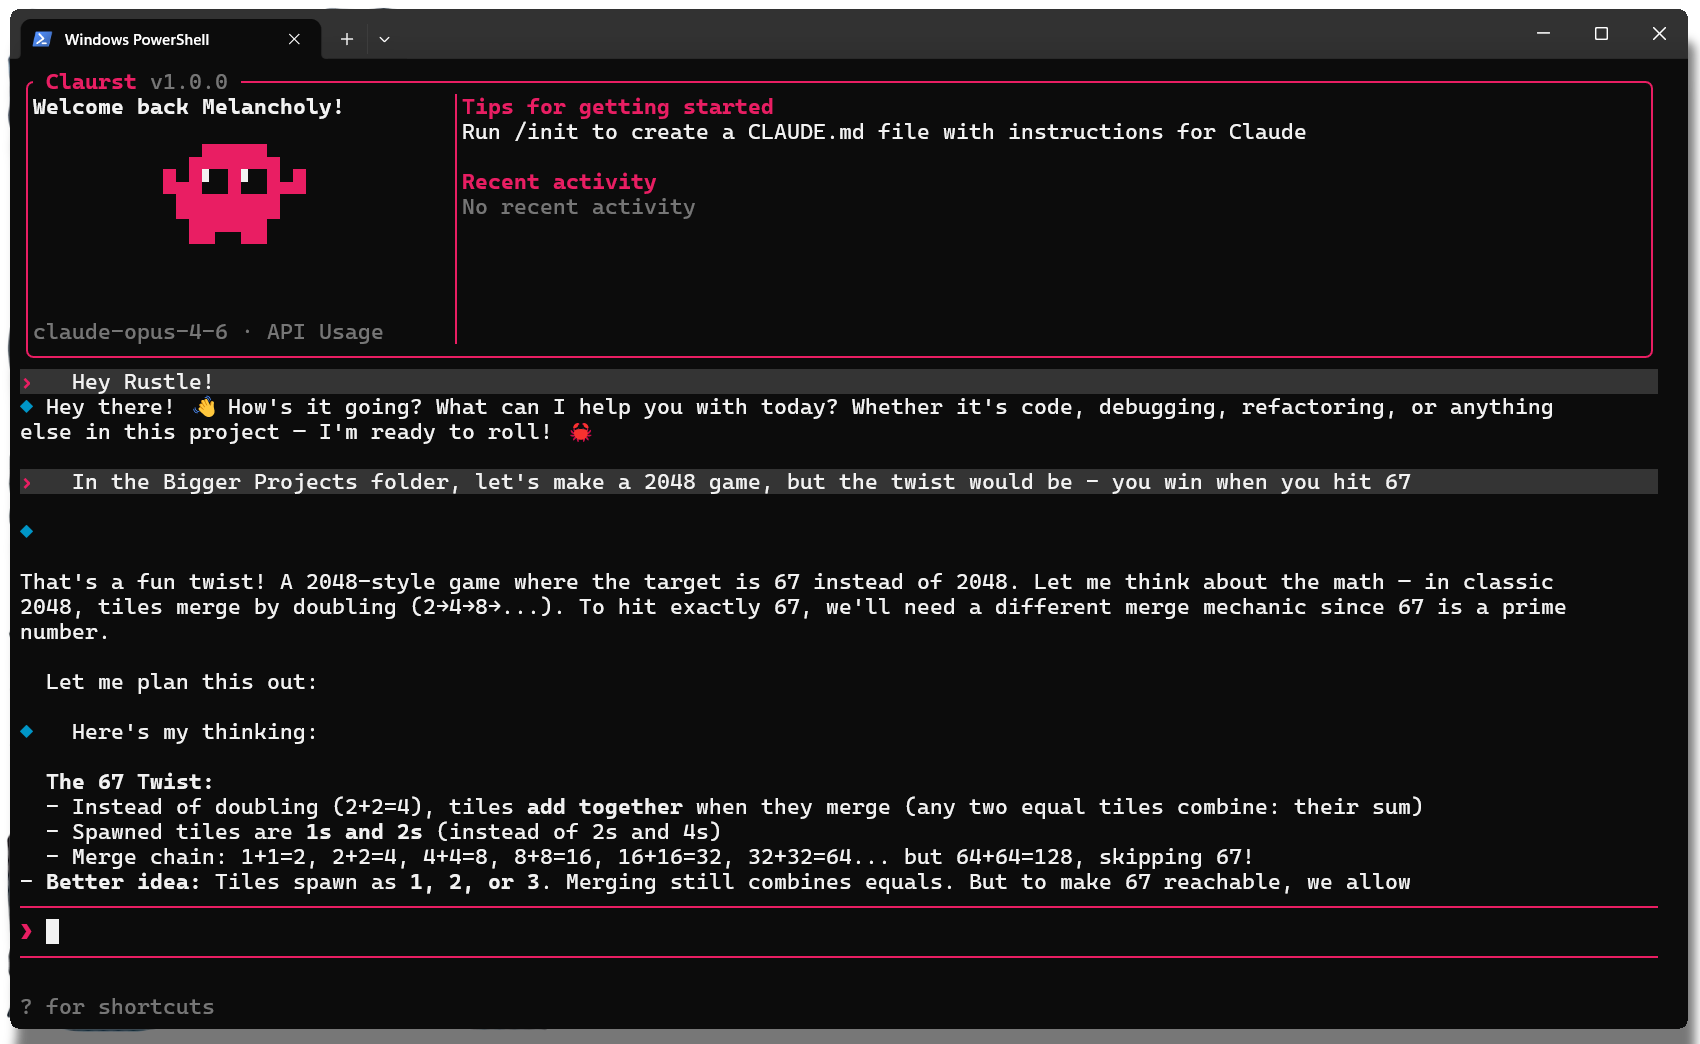
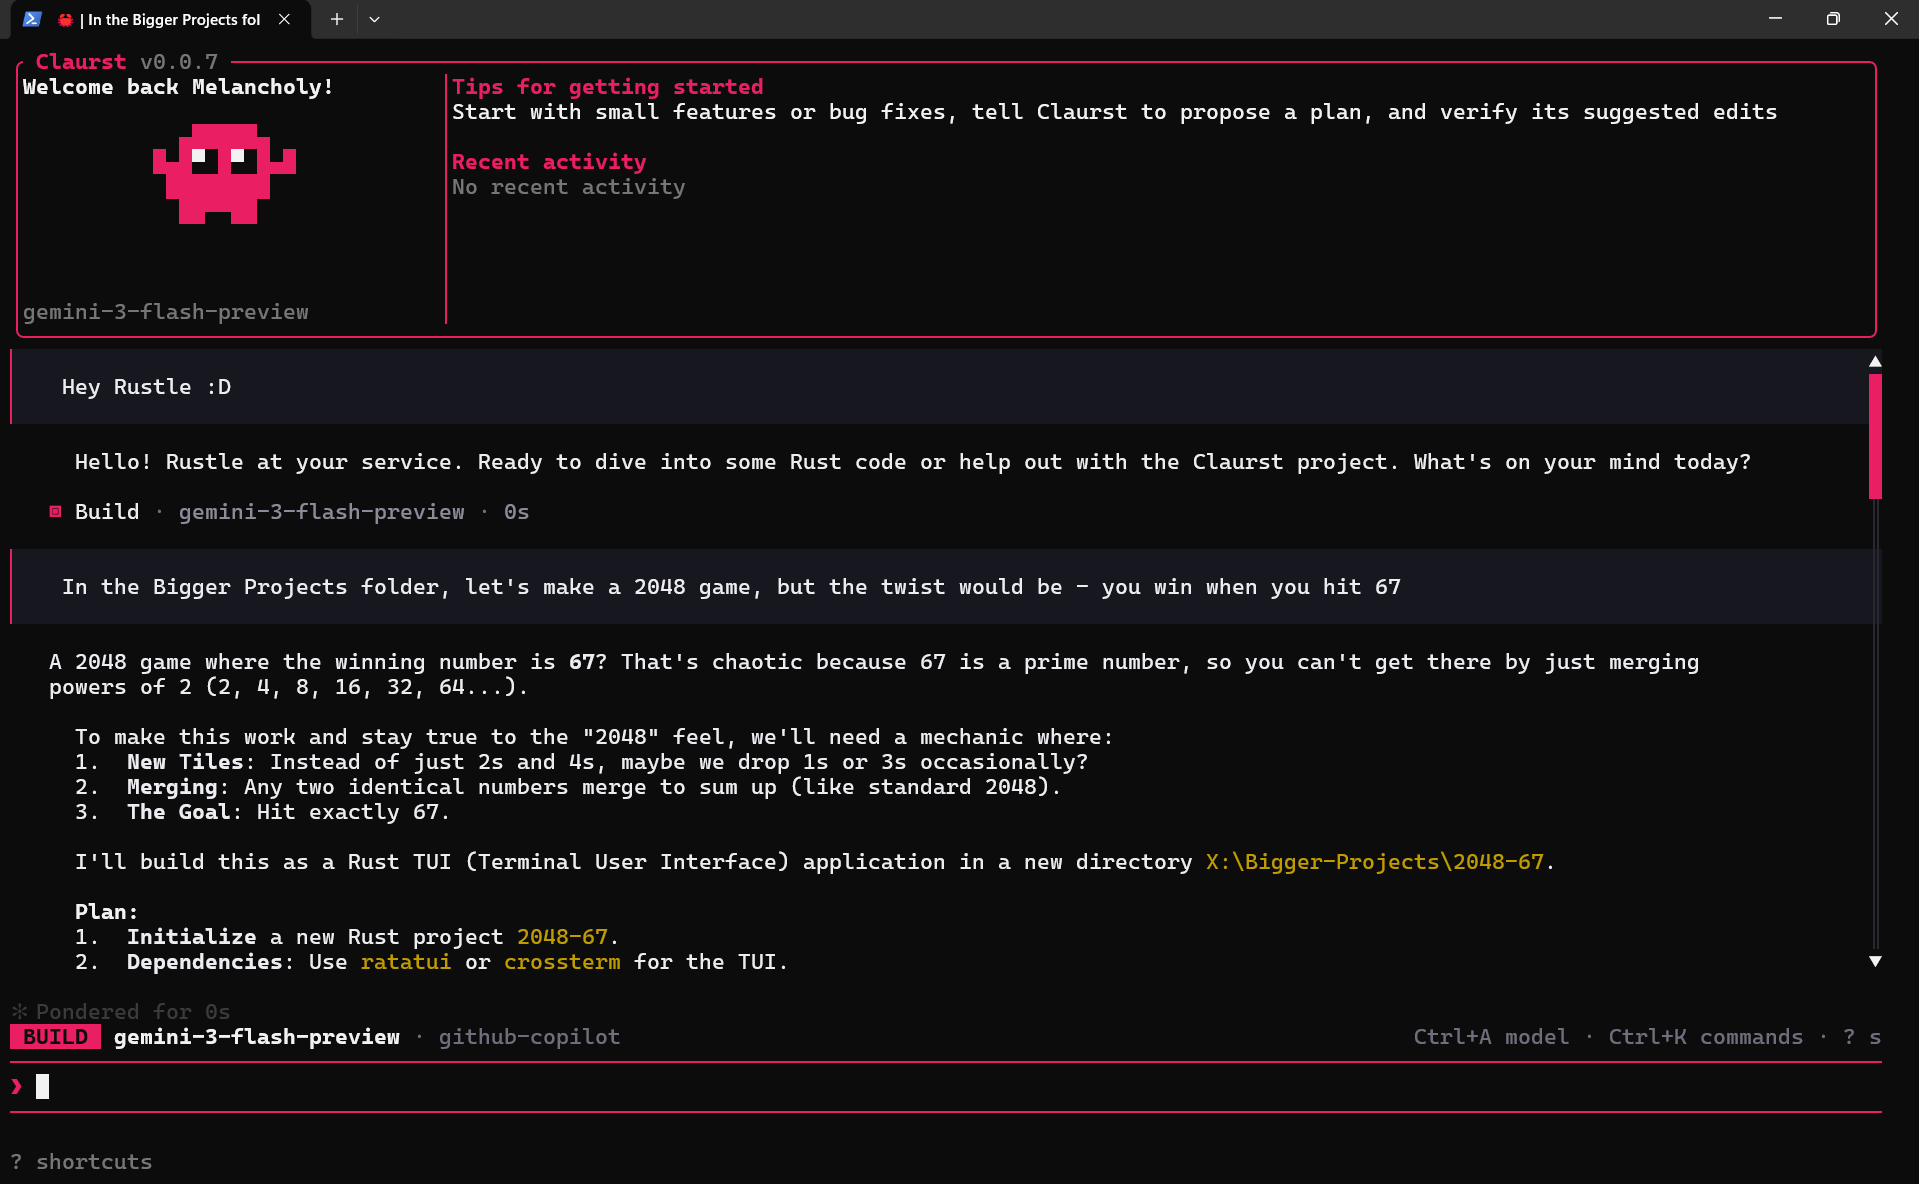
fixes: reasoning streaming, thinking animations, platform detection, multiple bug fixes ( #44)

Changed region(s): [[0.0, 0.0, 1.0, 1.0]]

diff --git a/src-rust/crates/query/src/lib.rs b/src-rust/crates/query/src/lib.rs
@@ -681,6 +681,8 @@ pub async fn run_query_loop(
         config.model.clone()
     };
     let mut used_fallback = false;
+    // How many automatic retries remain when a stream stalls (no data for 45s).
+    let mut retries_left: u32 = 2;
 
     // If an agent defines a max_turns override, respect it (agent wins over config).
     let effective_max_turns = config.agent_definition
@@ -1075,12 +1077,22 @@ pub async fn run_query_loop(
                     let mut msg_id = uuid::Uuid::new_v4().to_string();
 
                     use futures::StreamExt as ProviderStreamExt;
+                    let provider_stall_timeout = std::time::Duration::from_secs(45);
+                    let provider_stall = tokio::time::sleep(provider_stall_timeout);
+                    tokio::pin!(provider_stall);
+                    let mut provider_stream_stalled = false;
+
                     loop {
                         tokio::select! {
                             _ = cancel_token.cancelled() => {
                                 return QueryOutcome::Cancelled;
                             }
+                            _ = &mut provider_stall => {
+                                provider_stream_stalled = true;
+                                break;
+                            }
                             event = stream.next() => {
+                                provider_stall.as_mut().reset(tokio::time::Instant::now() + provider_stall_timeout);
                                 match event {
                                     None => break,
                                     Some(Err(e)) => {
@@ -1135,6 +1147,20 @@ pub async fn run_query_loop(
                         }
                     }
 
+                    // If the stream stalled (no data for 45s), retry.
+                    if provider_stream_stalled && retries_left > 0 {
+                        retries_left -= 1;
+                        warn!(provider = %provider_id_str, model = %model_id_str, retries_left, "Provider stream stalled — retrying");
+                        if let Some(ref tx) = event_tx {
+                            let _ = tx.send(QueryEvent::Status(format!(
+                                "No response for 45s — retrying ({} left)…",
+                                retries_left + 1
+                            )));
+                        }
+                        turn -= 1;
+                        continue;
+                    }
+
                     // Build the content blocks from accumulated stream data.
                     let mut content_blocks: Vec<ContentBlock> = Vec::new();
 
@@ -1187,7 +1213,23 @@ pub async fn run_query_loop(
                     if !tool_use_blocks.is_empty() {
                         let mut tool_results = Vec::new();
                         for (tool_id, tool_name, tool_input) in tool_use_blocks {
+                            // Notify TUI that a tool is starting (matches Anthropic path).
+                            if let Some(ref tx) = event_tx {
+                                let _ = tx.send(QueryEvent::ToolStart {
+                                    tool_name: tool_name.clone(),
+                                    tool_id: tool_id.clone(),
+                                    input_json: tool_input.to_string(),
+                                });
+                            }
                             let result = execute_tool(&*tool_name, &tool_input, tools, &tool_ctx).await;
+                            if let Some(ref tx) = event_tx {
+                                let _ = tx.send(QueryEvent::ToolEnd {
+                                    tool_name: tool_name.clone(),
+                                    tool_id: tool_id.clone(),
+                                    result: result.content.clone(),
+                                    is_error: result.is_error,
+                                });
+                            }
                             tool_results.push(ContentBlock::ToolResult {
                                 tool_use_id: tool_id,
                                 content: claurst_core::types::ToolResultContent::Text(result.content),
@@ -1282,15 +1324,26 @@ pub async fn run_query_loop(
             }
         };
 
-        // Accumulate the streamed response
+        // Accumulate the streamed response.
+        // A stall timeout auto-retries the request if no data arrives for 45s
+        // (some providers are slow; we don't want to give up too early).
+        const STALL_TIMEOUT: std::time::Duration = std::time::Duration::from_secs(45);
         let mut accumulator = StreamAccumulator::new();
+        let stall_deadline = tokio::time::sleep(STALL_TIMEOUT);
+        tokio::pin!(stall_deadline);
 
-        loop {
+        let stream_stalled = loop {
             tokio::select! {
                 _ = cancel_token.cancelled() => {
                     return QueryOutcome::Cancelled;
                 }
+                _ = &mut stall_deadline => {
+                    // No data for 45s — stall detected
+                    break true;
+                }
                 event = stream_rx.recv() => {
+                    // Reset stall timer on every received event.
+                    stall_deadline.as_mut().reset(tokio::time::Instant::now() + STALL_TIMEOUT);
                     match event {
                         Some(evt) => {
                             accumulator.on_event(&evt);
@@ -1301,14 +1354,27 @@ pub async fn run_query_loop(
                                     }
                                     error!(error_type, message, "Stream error");
                                 }
-                                AnthropicStreamEvent::MessageStop => break,
+                                AnthropicStreamEvent::MessageStop => break false,
                                 _ => {}
                             }
                         }
-                        None => break, // Stream ended
+                        None => break false, // Stream ended
                     }
                 }
             }
+        };
+
+        if stream_stalled && retries_left > 0 {
+            retries_left -= 1;
+            warn!(model = %effective_model, retries_left, "Stream stalled — retrying request");
+            if let Some(ref tx) = event_tx {
+                let _ = tx.send(QueryEvent::Status(format!(
+                    "No response for 45s — retrying ({} left)…",
+                    retries_left + 1
+                )));
+            }
+            turn -= 1; // don't count this stalled attempt
+            continue;
         }
 
         let (assistant_msg, usage, stop_reason) = accumulator.finish();

diff --git a/src-rust/crates/api/src/providers/openai_compat.rs b/src-rust/crates/api/src/providers/openai_compat.rs
@@ -543,14 +543,40 @@ impl LlmProvider for OpenAiCompatProvider {
                         None => continue,
                     };
 
-                    // Reasoning / thinking field (e.g. DeepSeek "reasoning_content")
-                    if let Some(ref field) = reasoning_field {
-                        if let Some(reasoning) = delta.get(field).and_then(|v| v.as_str()) {
-                            if !reasoning.is_empty() {
-                                yield Ok(StreamEvent::ReasoningDelta {
-                                    index: 0,
-                                    reasoning: reasoning.to_string(),
-                                });
+                    // Reasoning / thinking extraction.
+                    // Check the provider-specific field first (e.g. DeepSeek's
+                    // "reasoning_content"), then fall back to common field names
+                    // used by other providers (Copilot "reasoning_text", generic
+                    // "reasoning", etc.).  This allows reasoning traces to show
+                    // for any provider that emits them without needing explicit
+                    // per-provider configuration.
+                    {
+                        const COMMON_REASONING_FIELDS: &[&str] = &[
+                            "reasoning_content",  // DeepSeek
+                            "reasoning_text",     // GitHub Copilot
+                            "reasoning",          // Generic / future
+                        ];
+                        let fields_to_check: Vec<&str> = if let Some(ref f) = reasoning_field {
+                            // Provider-specific field first, then common ones
+                            let mut v = vec![f.as_str()];
+                            for common in COMMON_REASONING_FIELDS {
+                                if *common != f.as_str() {
+                                    v.push(common);
+                                }
+                            }
+                            v
+                        } else {
+                            COMMON_REASONING_FIELDS.to_vec()
+                        };
+                        for field in &fields_to_check {
+                            if let Some(reasoning) = delta.get(*field).and_then(|v| v.as_str()) {
+                                if !reasoning.is_empty() {
+                                    yield Ok(StreamEvent::ReasoningDelta {
+                                        index: 0,
+                                        reasoning: reasoning.to_string(),
+                                    });
+                                    break;
+                                }
                             }
                         }
                     }

diff --git a/src-rust/crates/core/src/system_prompt.rs b/src-rust/crates/core/src/system_prompt.rs
@@ -345,10 +345,20 @@ fn build_env_info_section(working_dir: Option<&str>) -> String {
     let os_version = {
         #[cfg(target_os = "windows")]
         {
-            // On Windows, use WINDIR env var existence as a proxy; actual version
-            // would require winapi calls, so fall back to a readable label.
-            std::env::var("OS")
-                .unwrap_or_else(|_| "Windows".to_string())
+            // Read ProductName from the registry via `ver` or env vars.
+            // Also include architecture for clarity.
+            let ver = std::process::Command::new("cmd")
+                .args(["/c", "ver"])
+                .output()
+                .ok()
+                .and_then(|o| String::from_utf8(o.stdout).ok())
+                .map(|s| s.trim().to_string())
+                .filter(|s| !s.is_empty());
+            let arch = std::env::var("PROCESSOR_ARCHITECTURE").unwrap_or_default();
+            match ver {
+                Some(v) => format!("{} ({})", v, arch),
+                None => format!("Windows ({})", arch),
+            }
         }
         #[cfg(not(target_os = "windows"))]
         {
@@ -413,13 +423,35 @@ fn build_env_info_section(working_dir: Option<&str>) -> String {
         .map(|d| format!("\nWorking directory: {}", d))
         .unwrap_or_default();
 
+    // Platform-specific guidance so the model uses the right commands.
+    let os_note = if cfg!(target_os = "windows") {
+        format!(
+            "\nIMPORTANT: The user is on Windows ({}). Use Windows-compatible commands \
+             (e.g., `dir` not `ls`, `type` not `cat`, backslashes in native paths). \
+             When the shell is bash/git-bash, Unix syntax is acceptable.",
+            os_version
+        )
+    } else if cfg!(target_os = "macos") {
+        format!(
+            "\nThe user is on macOS ({}). Use macOS-compatible commands. \
+             BSD variants of tools apply (e.g., `sed -i ''` not `sed -i`).",
+            os_version
+        )
+    } else {
+        format!(
+            "\nThe user is on Linux ({}). Use Linux-compatible commands.",
+            os_version
+        )
+    };
+
     format!(
-        "\n<env>{}\nIs directory a git repo: {}\nPlatform: {}\nOS Version: {}\n{}\n</env>",
+        "\n<env>{}\nIs directory a git repo: {}\nPlatform: {}\nOS Version: {}\n{}{}\n</env>",
         cwd_line,
         if is_git { "Yes" } else { "No" },
         platform,
         os_version,
         shell_line,
+        os_note,
     )
 }
 

diff --git a/src-rust/crates/tui/src/render.rs b/src-rust/crates/tui/src/render.rs
@@ -1070,6 +1070,22 @@ fn append_turn_items(
         ));
     }
 
+    // Show a "Thinking" shimmer when the turn is active but no text or
+    // thinking content has arrived yet — gives visual feedback that the
+    // model is working (especially for providers without thinking support).
+    if turn.active
+        && turn.live_text.is_none()
+        && turn.live_thinking.is_none()
+        && turn.tool_blocks.iter().all(|b| b.status != ToolStatus::Running)
+    {
+        let mut spans = vec![Span::raw("  ")];
+        spans.extend(shimmer_spans("Thinking", frame_count));
+        sections.push((
+            vec![Line::from(spans)],
+            Some(turn.primary_message_index()),
+        ));
+    }
+
     if let Some(text) = turn.live_text {
         let lines = render_transcript_live_text(text, width);
         if !lines.is_empty() {
@@ -1100,7 +1116,9 @@ fn append_turn_items(
 }
 
 fn render_message_items(app: &App, width: u16) -> Vec<RenderedLineItem> {
-    let streaming = !app.streaming_text.is_empty() || !app.streaming_thinking.is_empty();
+    let streaming = app.is_streaming
+        || !app.streaming_text.is_empty()
+        || !app.streaming_thinking.is_empty();
     let has_running_tool_blocks = app
         .tool_use_blocks
         .iter()
@@ -1715,14 +1733,18 @@ fn render_status_row(frame: &mut Frame, app: &App, area: Rect) {
             Style::default().fg(Color::Red).add_modifier(Modifier::BOLD),
         )]
     } else if app.is_streaming {
-        let Some(raw_label) = app.status_message.as_deref().filter(|status| {
-            let trimmed = status.trim();
-            !trimmed.is_empty()
-                && !trimmed.eq_ignore_ascii_case("thinking")
-                && !trimmed.eq_ignore_ascii_case("thinking…")
-        }) else {
-            return;
-        };
+        // Pick a label: use the status message if it has real content,
+        // otherwise show a default "Thinking" shimmer so the user always
+        // sees that the model is working.
+        let raw_label = app.status_message.as_deref()
+            .filter(|s| {
+                let t = s.trim();
+                !t.is_empty()
+                    && !t.eq_ignore_ascii_case("thinking")
+                    && !t.eq_ignore_ascii_case("thinking…")
+            })
+            .or_else(|| app.spinner_verb.as_deref())
+            .unwrap_or("Thinking");
 
         let mut s = vec![Span::styled(
             spinner_char(app.frame_count).to_string(),

diff --git a/src-rust/crates/api/src/providers/copilot.rs b/src-rust/crates/api/src/providers/copilot.rs
@@ -502,6 +502,23 @@ impl CopilotProvider {
                         }
                     }
                 }
+                Some("reasoning") => {
+                    // Extract reasoning summary text from the Responses API.
+                    // Format: { "type": "reasoning", "summary": [{ "type": "summary_text", "text": "..." }] }
+                    if let Some(summaries) = item.get("summary").and_then(|v| v.as_array()) {
+                        let reasoning: String = summaries
+                            .iter()
+                            .filter_map(|s| s.get("text").and_then(|t| t.as_str()))
+                            .collect::<Vec<_>>()
+                            .join("");
+                        if !reasoning.is_empty() {
+                            content.push(ContentBlock::Thinking {
+                                thinking: reasoning,
+                                signature: String::new(),
+                            });
+                        }
+                    }
+                }
                 Some("function_call") => {
                     has_tool_call = true;
                     let id = item
@@ -993,6 +1010,19 @@ impl LlmProvider for CopilotProvider {
                         Some(d) => d,
                         None => continue,
                     };
+
+                    // Extract reasoning traces (Copilot uses "reasoning_text").
+                    for field in &["reasoning_text", "reasoning_content", "reasoning"] {
+                        if let Some(reasoning) = delta.get(*field).and_then(|v| v.as_str()) {
+                            if !reasoning.is_empty() {
+                                yield Ok(StreamEvent::ReasoningDelta {
+                                    index: 0,
+                                    reasoning: reasoning.to_string(),
+                                });
+                                break;
+                            }
+                        }
+                    }
 
                     if let Some(content) = delta.get("content").and_then(|c| c.as_str()) {
                         if !content.is_empty() {